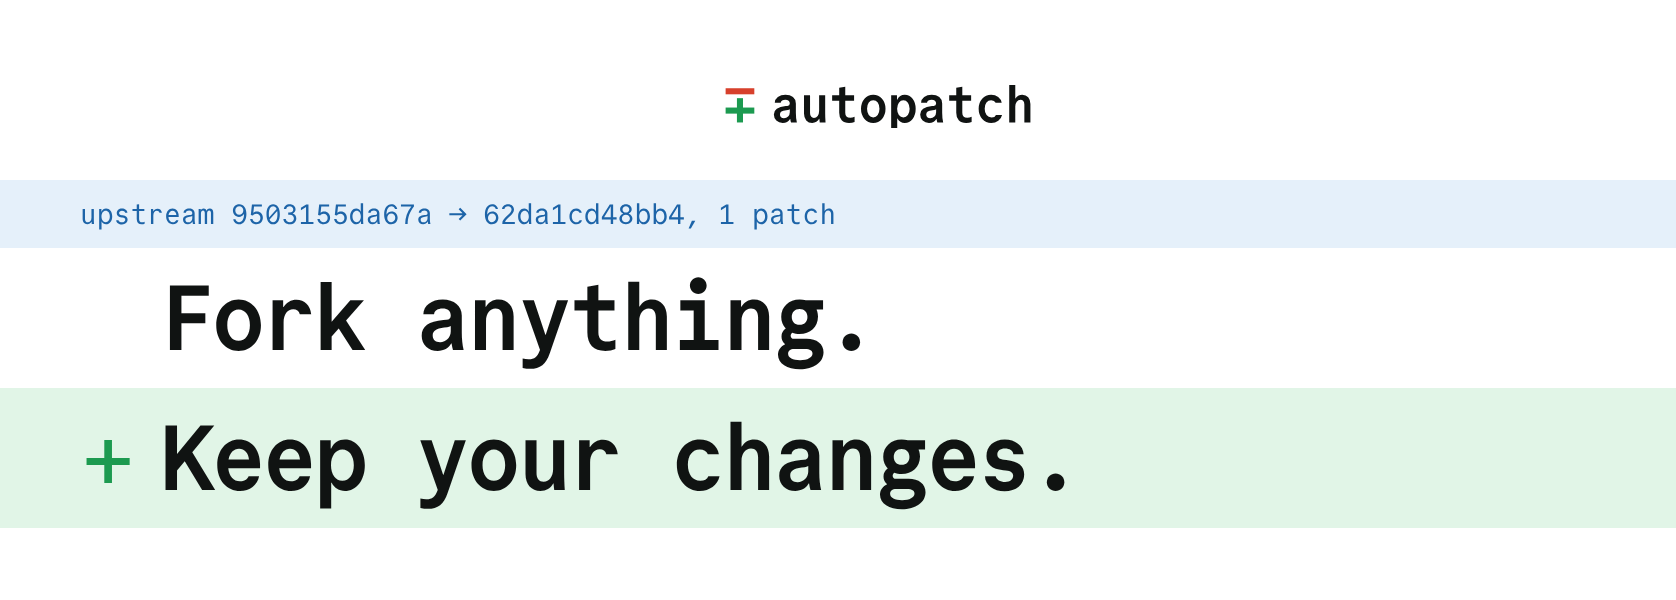
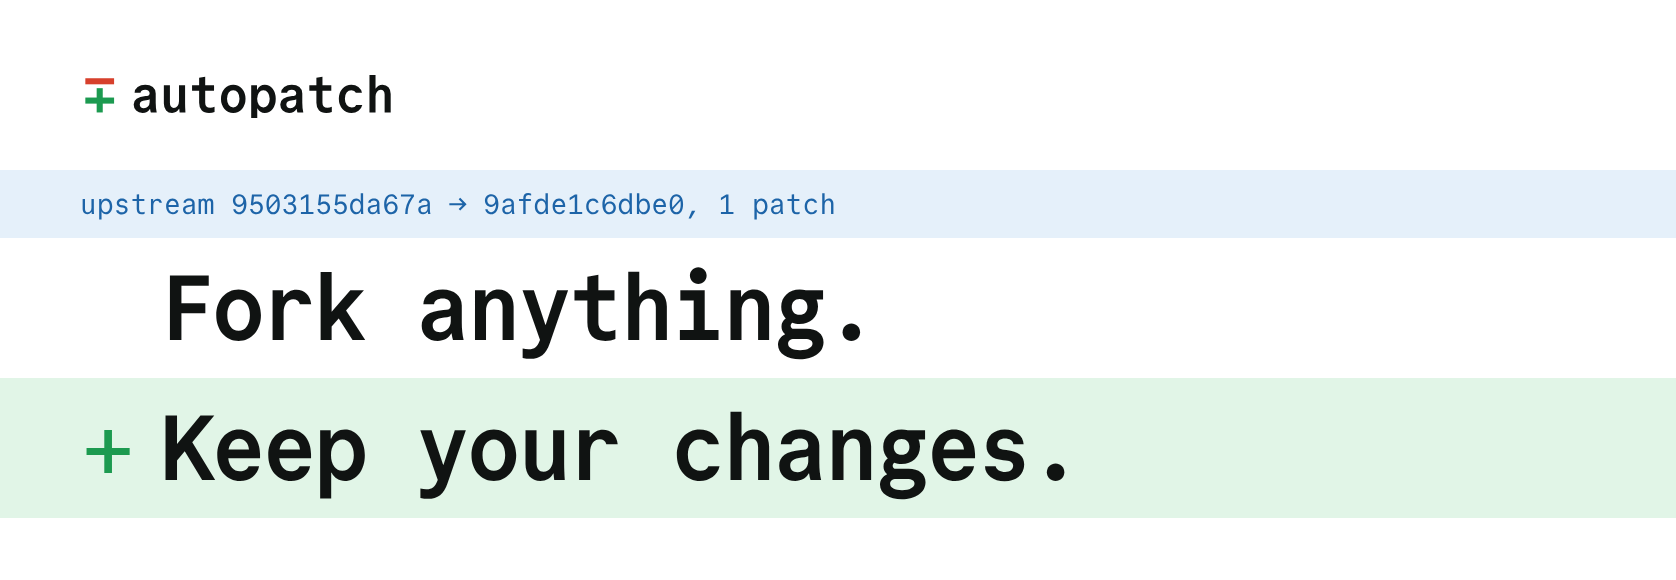
Site: the real CI heal on T3 Code, launch visual, README headers and social preview from the same run

diff --git a/brand/launch-visual.html b/brand/launch-visual.html
@@ -21,26 +21,27 @@ main { display: grid; grid-template-columns: 0.92fr 1.08fr; gap: 28px; min-heigh
 .md h3 { font-size: 23px; margin: 22px 0 10px; }
 .md h3 span { color: var(--ink-3); font-weight: 400; }
 .md p { font-family: "Instrument Sans", sans-serif; font-size: 27px; line-height: 1.42; margin: 0; color: var(--ink); letter-spacing: -0.005em; }
+.md p.p2 { margin-top: 16px; color: var(--ink-2); }
 .md code { font-family: "Commit Mono", monospace; font-size: 0.85em; background: var(--bg-2); padding: 0 0.25em; }
 pre { margin: 0; font: inherit; }
-.term { padding: 18px 22px; font-size: 21px; line-height: 1.55; border-bottom: 1px solid var(--hair); background: var(--bg-2); }
+.term { padding: 16px 22px; font-size: 20px; line-height: 1.5; border-bottom: 1px solid var(--hair); background: var(--bg-2); }
 .term .p { color: var(--add-sign); }
 .term .d { color: var(--ink-2); }
 .term .g { color: var(--add); font-weight: 700; }
-.diff { padding: 12px 0; font-size: 19px; line-height: 1.5; }
+.diff { padding: 12px 0; font-size: 20px; line-height: 1.5; white-space: normal; }
 .ln { display: grid; grid-template-columns: 2.2ch minmax(0, 1fr); white-space: pre; padding-right: 16px; }
 .ln > i { font-style: normal; overflow: hidden; text-overflow: ellipsis; }
 .ln::before { content: " "; text-align: center; }
 .hunk { background: var(--hunk-bg); color: var(--hunk); }
 .add { background: var(--add-bg); } .add::before { content: "+"; color: var(--add-sign); }
 .ctx { color: var(--ink-2); }
-.new { color: var(--ink); } .new::before { content: "›"; color: var(--hunk); }
+
 </style>
 </head>
 <body>
 <header>
   <img src="logo/autopatch.svg" alt="autopatch">
-  <span>AVGVSTVS96/t3code · 382 upstream commits later</span>
+  <span>AVGVSTVS96/t3code · 383 upstream commits later</span>
 </header>
 <main>
   <section class="panel">
@@ -52,13 +53,18 @@ baseline: 9503155da67add4fbd7fbc51c99ec19a0c8c4a2c
 ---</pre>
       <h3><span>## </span>Intent</h3>
       <p>The window (and browser tab) title shows the thread you're looking at, as <code>&lt;thread title&gt; · &lt;project name&gt;</code>, or just the thread title when there's no project. With several T3 Code windows open, the dock, window switcher and tab bar can tell them apart instead of all reading "T3 Code".</p>
+      <p class="p2">Leaving a thread puts the app's own title back, so views without a thread (settings, the new thread screen) look the way upstream made them.</p>
     </div>
   </section>
   <section class="panel">
-    <div class="head"><b>autopatch sync</b><span data-where>healed by Claude Code</span></div>
-<pre class="term" data-term><span class="d">upstream's tip isn't green yet, using 62da1cd48bb4</span>
-<span class="d">upstream 9503155da67a → 62da1cd48bb4, 1 patch</span>
-healing window-title</pre>
+    <div class="head"><b>autopatch sync</b><span data-where>GitHub Actions, 1m55s</span></div>
+<pre class="term" data-term><span class="d">upstream 9503155da67a → 9afde1c6dbe0, 1 patch</span>
+healing window-title
+<span class="d">$ tsc --noEmit</span>
+<span class="g">autopatch: sync pingdotgg/t3code to 9afde1c6dbe0</span>
+
+<span class="g">healed window-title</span>
+pushed 85b3a1c414c9 to main, signed by GitHub</pre>
 <pre class="diff" data-diff><span class="ln hunk"><i>@@ -89,6 +89,15 @@ export const ChatHeader = memo(function ChatHeader({</i></span>
 <span class="ln ctx"><i>  const activeProjectCwd = activeProject?.workspaceRoot ?? null;</i></span>
 <span class="ln add"><i>  useEffect(() => {</i></span>
@@ -71,7 +77,8 @@ healing window-title</pre>
 <span class="ln add"><i>    };</i></span>
 <span class="ln add"><i>  }, [activeProjectName, activeThreadTitle]);</i></span>
 <span class="ln ctx new"><i>  const interfaceFont = useClientSettings((settings) => settings.fontFamilySans);</i></span>
-<span class="ln ctx new"><i>  const breadcrumbContainerRef = useRef&lt;HTMLDivElement&gt;(null);</i></span></pre>
+<span class="ln ctx"><i>  const breadcrumbContainerRef = useRef&lt;HTMLDivElement&gt;(null);</i></span>
+</pre>
   </section>
 </main>
 </body>

diff --git a/brand/readme/header-dark.html b/brand/readme/header-dark.html
@@ -4,7 +4,7 @@
 <link rel="stylesheet" href="header.css">
 <body>
 <img class="wm" src="../logo/autopatch-dark.svg" alt="">
-<div class="ln hunk">upstream 9503155da67a → 62da1cd48bb4, 1 patch</div>
+<div class="ln hunk">upstream 9503155da67a → 9afde1c6dbe0, 1 patch</div>
 <div class="ln big">Fork anything.</div>
 <div class="ln big add">Keep your changes.</div>
 </body>

diff --git a/brand/readme/header-light.html b/brand/readme/header-light.html
@@ -4,7 +4,7 @@
 <link rel="stylesheet" href="header.css">
 <body>
 <img class="wm" src="../logo/autopatch.svg" alt="">
-<div class="ln hunk">upstream 9503155da67a → 62da1cd48bb4, 1 patch</div>
+<div class="ln hunk">upstream 9503155da67a → 9afde1c6dbe0, 1 patch</div>
 <div class="ln big">Fork anything.</div>
 <div class="ln big add">Keep your changes.</div>
 </body>
